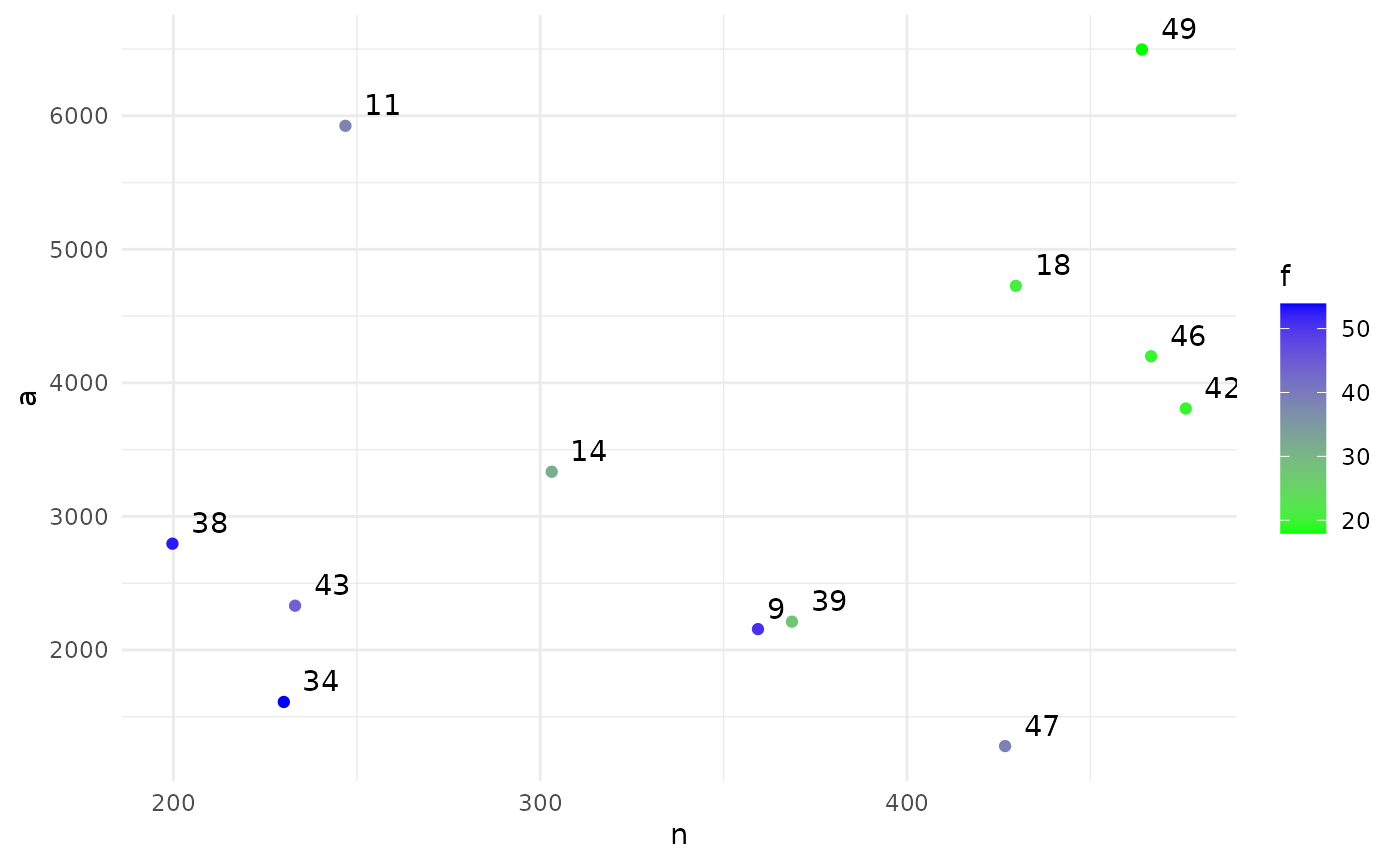
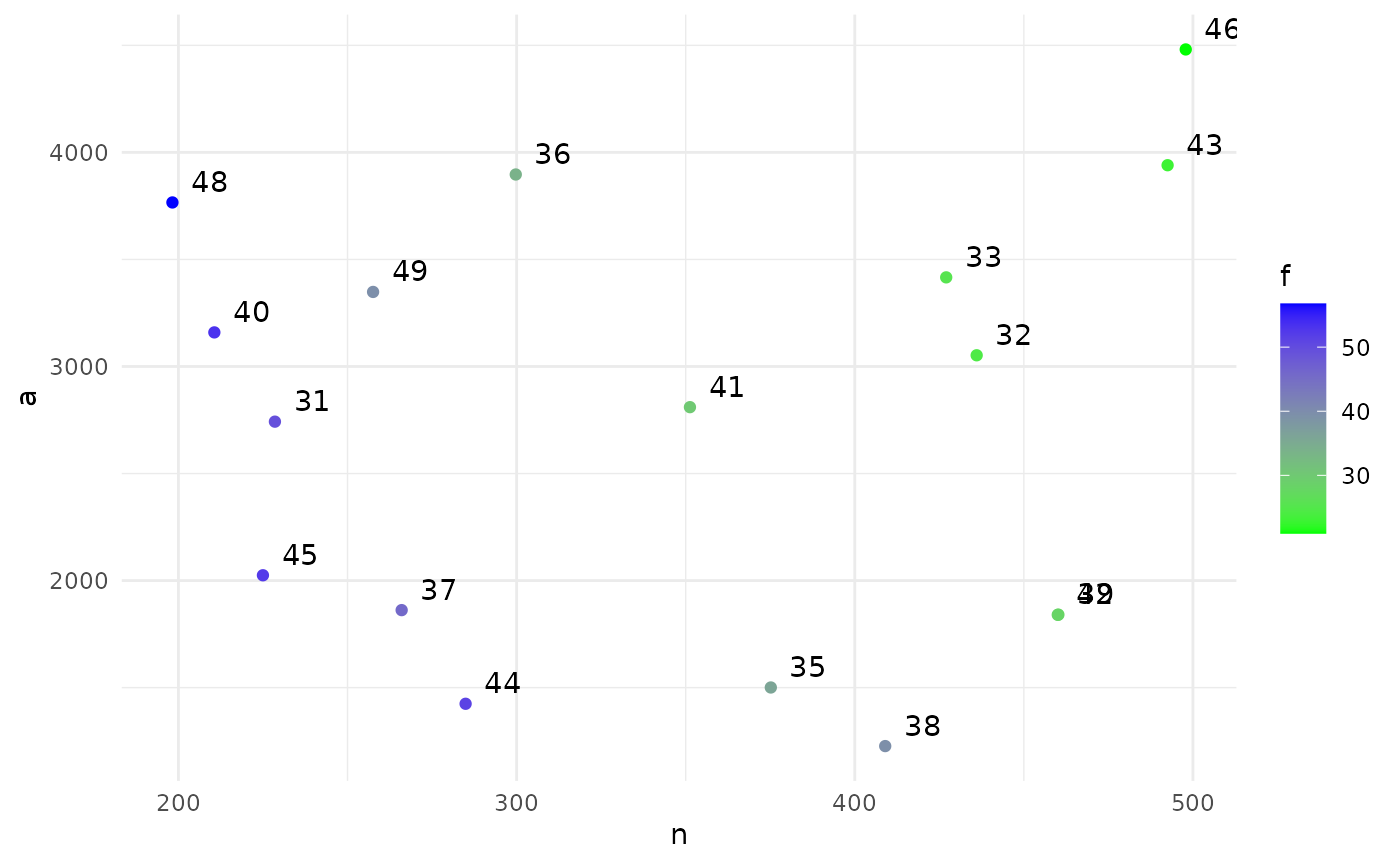
Deploying to gh-pages from @ DTWilson/BOSSS@1fa778f2d2bf5e0891db923f933d6908e89b4edc 🚀

diff --git a/articles/Examples.html b/articles/Examples.html
@@ -600,7 +600,7 @@ be (probably) less than 0.2 and the follow-up length to be less than
 <code class="sourceCode R"><span><span class="fu"><a href="https://rdrr.io/r/base/Random.html" class="external-link">set.seed</a></span><span class="op">(</span><span class="fl">327324</span><span class="op">)</span></span>
 <span></span>
 <span><span class="va">size</span> <span class="op">&lt;-</span> <span class="fl">30</span></span>
-<span><span class="va">N</span> <span class="op">&lt;-</span> <span class="fl">500</span></span>
+<span><span class="va">N</span> <span class="op">&lt;-</span> <span class="fl">100</span></span>
 <span></span>
 <span><span class="va">ptm</span> <span class="op">&lt;-</span> <span class="fu"><a href="https://rdrr.io/r/base/proc.time.html" class="external-link">proc.time</a></span><span class="op">(</span><span class="op">)</span></span>
 <span><span class="va">sol</span> <span class="op">&lt;-</span> <span class="fu"><a href="../reference/BOSSS_solution.html">BOSSS_solution</a></span><span class="op">(</span><span class="va">size</span>, <span class="va">N</span>, <span class="va">prob</span><span class="op">)</span></span>
@@ -611,11 +611,10 @@ be (probably) less than 0.2 and the follow-up length to be less than
 <span><span class="co">#&gt; </span></span>
 <span><span class="co">#&gt;           n      fu      af</span></span>
 <span><span class="co">#&gt; 9  359.3750 50.6250 8.31250</span></span>
-<span><span class="co">#&gt; 11 246.8750 38.1250 1.56250</span></span>
 <span><span class="co">#&gt; 13 415.6250 44.3750 4.93750</span></span>
 <span><span class="co">#&gt; 17 317.1875 58.4375 4.09375</span></span>
-<span><span class="co">#&gt; 18 429.6875 20.9375 1.84375</span></span>
 <span><span class="co">#&gt; 21 485.9375 39.6875 9.71875</span></span>
+<span><span class="co">#&gt; 25 345.3125 42.8125 1.28125</span></span>
 <span><span class="co">#&gt; 26 457.8125 30.3125 3.53125</span></span>
 <span><span class="co">#&gt; 29 401.5625 49.0625 6.90625</span></span>
 <span><span class="co">#&gt; </span></span>
@@ -623,83 +622,117 @@ be (probably) less than 0.2 and the follow-up length to be less than
 <span><span class="co">#&gt; </span></span>
 <span><span class="co">#&gt;    n, alt (mean) a, alt (mean) f, alt (mean)</span></span>
 <span><span class="co">#&gt; 9       359.3750      2156.250       50.6250</span></span>
-<span><span class="co">#&gt; 11      246.8750      5925.000       38.1250</span></span>
 <span><span class="co">#&gt; 13      415.6250      3325.000       44.3750</span></span>
 <span><span class="co">#&gt; 17      317.1875      4440.625       58.4375</span></span>
-<span><span class="co">#&gt; 18      429.6875      4726.562       20.9375</span></span>
 <span><span class="co">#&gt; 21      485.9375      1943.750       39.6875</span></span>
+<span><span class="co">#&gt; 25      345.3125     11395.312       42.8125</span></span>
 <span><span class="co">#&gt; 26      457.8125      3662.500       30.3125</span></span>
 <span><span class="co">#&gt; 29      401.5625      2810.938       49.0625</span></span>
 <span><span class="co">#&gt; </span></span>
 <span><span class="co">#&gt; ...and constraint function values:</span></span>
 <span><span class="co">#&gt; </span></span>
 <span><span class="co">#&gt;    s, alt (mean) s, alt (var)</span></span>
-<span><span class="co">#&gt; 9      -2.818081   0.03757873</span></span>
-<span><span class="co">#&gt; 11     -1.780150   0.01618577</span></span>
-<span><span class="co">#&gt; 13     -2.936892   0.04178691</span></span>
-<span><span class="co">#&gt; 17     -3.221373   0.05416146</span></span>
-<span><span class="co">#&gt; 18     -1.732408   0.01564970</span></span>
-<span><span class="co">#&gt; 21     -2.710611   0.03418256</span></span>
-<span><span class="co">#&gt; 26     -2.437794   0.02704859</span></span>
-<span><span class="co">#&gt; 29     -3.221373   0.05416146</span></span>
+<span><span class="co">#&gt; 9      -2.419826    0.1333284</span></span>
+<span><span class="co">#&gt; 13     -3.131345    0.2494842</span></span>
+<span><span class="co">#&gt; 17     -3.131345    0.2494842</span></span>
+<span><span class="co">#&gt; 21     -2.560667    0.1502170</span></span>
+<span><span class="co">#&gt; 25     -2.907321    0.2036231</span></span>
+<span><span class="co">#&gt; 26     -3.798549    0.4665877</span></span>
+<span><span class="co">#&gt; 29     -3.798549    0.4665877</span></span>
 <span><span class="fu"><a href="https://rdrr.io/r/graphics/plot.default.html" class="external-link">plot</a></span><span class="op">(</span><span class="va">sol</span><span class="op">)</span></span></code></pre></div>
 <p><img src="Examples_files/figure-html/unnamed-chunk-15-1.png" width="700"></p>
 <div class="sourceCode" id="cb14"><pre class="downlit sourceCode r">
-<code class="sourceCode R"><span><span class="va">N</span> <span class="op">&lt;-</span> <span class="fl">500</span></span>
+<code class="sourceCode R"><span><span class="va">N</span> <span class="op">&lt;-</span> <span class="fl">100</span></span>
+<span><span class="va">ptm</span> <span class="op">&lt;-</span> <span class="fu"><a href="https://rdrr.io/r/base/proc.time.html" class="external-link">proc.time</a></span><span class="op">(</span><span class="op">)</span></span>
 <span><span class="kw">for</span><span class="op">(</span><span class="va">i</span> <span class="kw">in</span> <span class="fl">1</span><span class="op">:</span><span class="fl">20</span><span class="op">)</span> <span class="op">{</span></span>
 <span>  <span class="va">sol</span> <span class="op">&lt;-</span> <span class="fu"><a href="../reference/iterate.html">iterate</a></span><span class="op">(</span><span class="va">sol</span>, <span class="va">prob</span>, <span class="va">N</span><span class="op">)</span> </span>
-<span><span class="op">}</span></span></code></pre></div>
+<span><span class="op">}</span></span>
+<span><span class="fu"><a href="https://rdrr.io/r/base/proc.time.html" class="external-link">proc.time</a></span><span class="op">(</span><span class="op">)</span> <span class="op">-</span> <span class="va">ptm</span></span></code></pre></div>
 <div class="sourceCode" id="cb15"><pre class="downlit sourceCode r">
 <code class="sourceCode R"><span><span class="fu"><a href="https://rdrr.io/r/base/print.html" class="external-link">print</a></span><span class="op">(</span><span class="va">sol</span><span class="op">)</span></span>
 <span><span class="co">#&gt; Design variables for the Pareto set: </span></span>
 <span><span class="co">#&gt; </span></span>
 <span><span class="co">#&gt;           n       fu       af</span></span>
-<span><span class="co">#&gt; 9  359.3750 50.62500 8.312500</span></span>
-<span><span class="co">#&gt; 11 246.8750 38.12500 1.562500</span></span>
-<span><span class="co">#&gt; 14 303.1250 31.87500 2.687500</span></span>
-<span><span class="co">#&gt; 18 429.6875 20.93750 1.843750</span></span>
-<span><span class="co">#&gt; 34 230.0819 53.88707 6.759177</span></span>
-<span><span class="co">#&gt; 38 199.7083 52.63788 3.515716</span></span>
-<span><span class="co">#&gt; 39 368.6289 27.57863 3.947984</span></span>
-<span><span class="co">#&gt; 42 476.0093 19.61557 2.193718</span></span>
-<span><span class="co">#&gt; 43 233.1484 44.00125 4.014669</span></span>
-<span><span class="co">#&gt; 46 466.5642 19.70490 1.971585</span></span>
-<span><span class="co">#&gt; 47 426.7519 38.53797 9.637794</span></span>
-<span><span class="co">#&gt; 49 464.0631 17.94535 1.257592</span></span>
+<span><span class="co">#&gt; 31 228.5281 49.35014 3.796745</span></span>
+<span><span class="co">#&gt; 32 436.0485 24.43320 3.054609</span></span>
+<span><span class="co">#&gt; 33 427.0384 25.46592 2.831004</span></span>
+<span><span class="co">#&gt; 35 375.1751 35.87907 7.225270</span></span>
+<span><span class="co">#&gt; 36 299.7509 33.84992 2.426087</span></span>
+<span><span class="co">#&gt; 37 266.0080 45.64281 5.707002</span></span>
+<span><span class="co">#&gt; 38 409.0015 39.50040 9.875706</span></span>
+<span><span class="co">#&gt; 39 460.2070 27.09531 5.422619</span></span>
+<span><span class="co">#&gt; 40 210.6164 53.24293 3.328948</span></span>
+<span><span class="co">#&gt; 41 351.2584 29.99896 3.340470</span></span>
+<span><span class="co">#&gt; 42 460.0331 28.08401 5.657101</span></span>
+<span><span class="co">#&gt; 43 492.5110 22.98154 2.639792</span></span>
+<span><span class="co">#&gt; 44 284.9192 51.21357 8.542463</span></span>
+<span><span class="co">#&gt; 45 224.9842 52.27752 5.274293</span></span>
+<span><span class="co">#&gt; 46 497.8736 20.94598 2.201160</span></span>
+<span><span class="co">#&gt; 48 198.2200 56.76570 2.842515</span></span>
+<span><span class="co">#&gt; 49 257.5549 39.58456 2.950562</span></span>
 <span><span class="co">#&gt; </span></span>
 <span><span class="co">#&gt; Corresponding objective function values...</span></span>
 <span><span class="co">#&gt; </span></span>
 <span><span class="co">#&gt;    n, alt (mean) a, alt (mean) f, alt (mean)</span></span>
-<span><span class="co">#&gt; 9       359.3750      2156.250      50.62500</span></span>
-<span><span class="co">#&gt; 11      246.8750      5925.000      38.12500</span></span>
-<span><span class="co">#&gt; 14      303.1250      3334.375      31.87500</span></span>
-<span><span class="co">#&gt; 18      429.6875      4726.562      20.93750</span></span>
-<span><span class="co">#&gt; 34      230.0819      1610.573      53.88707</span></span>
-<span><span class="co">#&gt; 38      199.7083      2795.917      52.63788</span></span>
-<span><span class="co">#&gt; 39      368.6289      2211.773      27.57863</span></span>
-<span><span class="co">#&gt; 42      476.0093      3808.074      19.61557</span></span>
-<span><span class="co">#&gt; 43      233.1484      2331.484      44.00125</span></span>
-<span><span class="co">#&gt; 46      466.5642      4199.077      19.70490</span></span>
-<span><span class="co">#&gt; 47      426.7519      1280.256      38.53797</span></span>
-<span><span class="co">#&gt; 49      464.0631      6496.883      17.94535</span></span>
+<span><span class="co">#&gt; 31      228.5281      2742.337      49.35014</span></span>
+<span><span class="co">#&gt; 32      436.0485      3052.340      24.43320</span></span>
+<span><span class="co">#&gt; 33      427.0384      3416.307      25.46592</span></span>
+<span><span class="co">#&gt; 35      375.1751      1500.700      35.87907</span></span>
+<span><span class="co">#&gt; 36      299.7509      3896.762      33.84992</span></span>
+<span><span class="co">#&gt; 37      266.0080      1862.056      45.64281</span></span>
+<span><span class="co">#&gt; 38      409.0015      1227.004      39.50040</span></span>
+<span><span class="co">#&gt; 39      460.2070      1840.828      27.09531</span></span>
+<span><span class="co">#&gt; 40      210.6164      3159.247      53.24293</span></span>
+<span><span class="co">#&gt; 41      351.2584      2810.067      29.99896</span></span>
+<span><span class="co">#&gt; 42      460.0331      1840.132      28.08401</span></span>
+<span><span class="co">#&gt; 43      492.5110      3940.088      22.98154</span></span>
+<span><span class="co">#&gt; 44      284.9192      1424.596      51.21357</span></span>
+<span><span class="co">#&gt; 45      224.9842      2024.858      52.27752</span></span>
+<span><span class="co">#&gt; 46      497.8736      4480.862      20.94598</span></span>
+<span><span class="co">#&gt; 48      198.2200      3766.181      56.76570</span></span>
+<span><span class="co">#&gt; 49      257.5549      3348.214      39.58456</span></span>
 <span><span class="co">#&gt; </span></span>
 <span><span class="co">#&gt; ...and constraint function values:</span></span>
 <span><span class="co">#&gt; </span></span>
 <span><span class="co">#&gt;    s, alt (mean) s, alt (var)</span></span>
-<span><span class="co">#&gt; 9      -2.818081   0.03757873</span></span>
-<span><span class="co">#&gt; 11     -1.780150   0.01618577</span></span>
-<span><span class="co">#&gt; 14     -1.448401   0.01297212</span></span>
-<span><span class="co">#&gt; 18     -1.732408   0.01564970</span></span>
-<span><span class="co">#&gt; 34     -1.732408   0.01564970</span></span>
-<span><span class="co">#&gt; 38     -1.397322   0.01257317</span></span>
-<span><span class="co">#&gt; 39     -1.435480   0.01286903</span></span>
-<span><span class="co">#&gt; 42     -1.569679   0.01401522</span></span>
-<span><span class="co">#&gt; 43     -1.597971   0.01427917</span></span>
-<span><span class="co">#&gt; 46     -1.612318   0.01441616</span></span>
-<span><span class="co">#&gt; 47     -1.474557   0.01318541</span></span>
-<span><span class="co">#&gt; 49     -1.656207   0.01484864</span></span>
+<span><span class="co">#&gt; 31     -1.442005   0.06465620</span></span>
+<span><span class="co">#&gt; 32     -1.317975   0.06003526</span></span>
+<span><span class="co">#&gt; 33     -2.179642   0.10956219</span></span>
+<span><span class="co">#&gt; 35     -1.648184   0.07389930</span></span>
+<span><span class="co">#&gt; 36     -1.648184   0.07389930</span></span>
+<span><span class="co">#&gt; 37     -1.648184   0.07389930</span></span>
+<span><span class="co">#&gt; 38     -1.648184   0.07389930</span></span>
+<span><span class="co">#&gt; 39     -1.378841   0.06222167</span></span>
+<span><span class="co">#&gt; 40     -1.723706   0.07783667</span></span>
+<span><span class="co">#&gt; 41     -1.442005   0.06465620</span></span>
+<span><span class="co">#&gt; 42     -1.576338   0.07043940</span></span>
+<span><span class="co">#&gt; 43     -1.978171   0.09367830</span></span>
+<span><span class="co">#&gt; 44     -1.978171   0.09367830</span></span>
+<span><span class="co">#&gt; 45     -1.507734   0.06737895</span></span>
+<span><span class="co">#&gt; 46     -1.803428   0.08235156</span></span>
+<span><span class="co">#&gt; 48     -1.648184   0.07389930</span></span>
+<span><span class="co">#&gt; 49     -1.442005   0.06465620</span></span>
+<span></span>
+<span><span class="va">p</span> <span class="op">&lt;-</span> <span class="fu"><a href="../reference/PS_empirical_ests.html">PS_empirical_ests</a></span><span class="op">(</span><span class="va">sol</span>, <span class="va">prob</span><span class="op">)</span><span class="op">[[</span><span class="fl">2</span><span class="op">]</span><span class="op">]</span><span class="op">[</span>, <span class="fl">1</span><span class="op">]</span></span>
+<span><span class="va">p</span> <span class="op">&lt;-</span> <span class="fl">1</span> <span class="op">-</span> <span class="fl">1</span><span class="op">/</span><span class="op">(</span><span class="fl">1</span> <span class="op">+</span> <span class="fu"><a href="https://rdrr.io/r/base/Log.html" class="external-link">exp</a></span><span class="op">(</span><span class="op">-</span><span class="va">p</span><span class="op">)</span><span class="op">)</span></span>
+<span></span>
+<span><span class="va">df</span> <span class="op">&lt;-</span> <span class="va">sol</span><span class="op">$</span><span class="va">p_set</span><span class="op">[</span>,<span class="fl">1</span><span class="op">:</span><span class="fl">3</span><span class="op">]</span></span>
+<span><span class="va">df</span><span class="op">$</span><span class="va">a</span> <span class="op">&lt;-</span> <span class="op">(</span><span class="va">df</span><span class="op">$</span><span class="va">fu</span> <span class="op"><a href="https://rdrr.io/r/base/Arithmetic.html" class="external-link">%/%</a></span> <span class="va">df</span><span class="op">$</span><span class="va">af</span><span class="op">)</span><span class="op">*</span><span class="va">df</span><span class="op">$</span><span class="va">n</span></span>
+<span></span>
+<span><span class="va">df</span> <span class="op">&lt;-</span> <span class="fu"><a href="https://rdrr.io/r/base/cbind.html" class="external-link">cbind</a></span><span class="op">(</span><span class="va">df</span>, <span class="va">p</span><span class="op">)</span></span>
+<span></span>
+<span><span class="va">df</span> <span class="op">&lt;-</span> <span class="va">df</span><span class="op">[</span><span class="fu"><a href="https://rdrr.io/r/base/order.html" class="external-link">order</a></span><span class="op">(</span><span class="va">df</span><span class="op">[</span>,<span class="fl">1</span><span class="op">]</span><span class="op">)</span>,<span class="op">]</span></span>
+<span>  </span>
+<span><span class="fu"><a href="https://rdrr.io/r/base/colnames.html" class="external-link">colnames</a></span><span class="op">(</span><span class="va">df</span><span class="op">)</span> <span class="op">&lt;-</span> <span class="fu"><a href="https://rdrr.io/r/base/c.html" class="external-link">c</a></span><span class="op">(</span><span class="st">"$n$"</span>, <span class="st">"$f$"</span>, <span class="st">"$a_f$"</span>, <span class="st">"a"</span>,</span>
+<span>                       <span class="st">"$E[s ~|~ H_1]$"</span><span class="op">)</span></span>
+<span></span>
+<span><span class="co">#print(xtable(df, digits = c(0,0,0,0,0,2)), booktabs = T, include.rownames = T, sanitize.text.function = function(x) {x}, floating = F, file = here("man", "tables", "P2.txt"))</span></span>
+<span></span>
 <span><span class="fu"><a href="https://rdrr.io/r/graphics/plot.default.html" class="external-link">plot</a></span><span class="op">(</span><span class="va">sol</span><span class="op">)</span></span></code></pre></div>
 <p><img src="Examples_files/figure-html/unnamed-chunk-18-1.png" width="700"></p>
+<div class="sourceCode" id="cb16"><pre class="downlit sourceCode r">
+<code class="sourceCode R"><span></span>
+<span><span class="co">#ggsave(here("man", "figures", "P2.pdf"), height=9, width=14, units="cm")</span></span></code></pre></div>
 </div>
 <div class="section level2">
 <h2 id="recruitment">Recruitment<a class="anchor" aria-label="anchor" href="#recruitment"></a>
@@ -726,7 +759,7 @@ function which returns the conditional power (conditioning on the
 attained sample size and the parameters of the outcome model) for any
 given design and hypothesis, and a deterministic function to return the
 two objective functions.</p>
-<div class="sourceCode" id="cb16"><pre class="downlit sourceCode r">
+<div class="sourceCode" id="cb17"><pre class="downlit sourceCode r">
 <code class="sourceCode R"><span><span class="kw"><a href="https://rdrr.io/r/base/library.html" class="external-link">library</a></span><span class="op">(</span><span class="va"><a href="https://dtwilson.github.io/BOSSS/">BOSSS</a></span><span class="op">)</span></span>
 <span></span>
 <span><span class="va">sim_rec</span> <span class="op">&lt;-</span> <span class="kw">function</span><span class="op">(</span><span class="va">m</span><span class="op">=</span><span class="fl">20</span>, <span class="va">t</span><span class="op">=</span><span class="fl">3</span>, </span>
@@ -790,7 +823,7 @@ two objective functions.</p>
 <p>Now we set up the problem using the <code>BOSSS</code> helper
 functions. We are going to look at designs with between 3 and 40 sites,
 running from between 6 months and 5 years.</p>
-<div class="sourceCode" id="cb17"><pre class="downlit sourceCode r">
+<div class="sourceCode" id="cb18"><pre class="downlit sourceCode r">
 <code class="sourceCode R"><span><span class="co"># Problem specification</span></span>
 <span><span class="va">design_space</span> <span class="op">&lt;-</span> <span class="fu"><a href="../reference/design_space.html">design_space</a></span><span class="op">(</span>lower <span class="op">=</span> <span class="fu"><a href="https://rdrr.io/r/base/c.html" class="external-link">c</a></span><span class="op">(</span><span class="fl">3</span>,<span class="fl">0.5</span><span class="op">)</span>, </span>
 <span>                             upper <span class="op">=</span> <span class="fu"><a href="https://rdrr.io/r/base/c.html" class="external-link">c</a></span><span class="op">(</span><span class="fl">40</span>,<span class="fl">5</span><span class="op">)</span>,</span>
@@ -815,7 +848,7 @@ running from between 6 months and 5 years.</p>
 <span>                 binary <span class="op">=</span> <span class="fu"><a href="https://rdrr.io/r/base/c.html" class="external-link">c</a></span><span class="op">(</span><span class="cn">FALSE</span>, <span class="cn">FALSE</span><span class="op">)</span><span class="op">)</span></span>
 <span></span>
 <span><span class="va">prob</span> <span class="op">&lt;-</span> <span class="fu"><a href="../reference/BOSSS_problem.html">BOSSS_problem</a></span><span class="op">(</span><span class="va">sim_rec</span>, <span class="va">design_space</span>, <span class="va">hypotheses</span>, <span class="va">objectives</span>, <span class="va">constraints</span>, det_func <span class="op">=</span> <span class="va">det_rec</span><span class="op">)</span></span></code></pre></div>
-<div class="sourceCode" id="cb18"><pre class="downlit sourceCode r">
+<div class="sourceCode" id="cb19"><pre class="downlit sourceCode r">
 <code class="sourceCode R"><span><span class="va">size</span> <span class="op">&lt;-</span> <span class="fl">20</span></span>
 <span><span class="va">N</span> <span class="op">&lt;-</span> <span class="fl">500</span></span>
 <span></span>
@@ -823,7 +856,7 @@ running from between 6 months and 5 years.</p>
 <span></span>
 <span><span class="fu"><a href="https://rdrr.io/r/base/print.html" class="external-link">print</a></span><span class="op">(</span><span class="va">sol</span><span class="op">)</span></span>
 <span><span class="fu"><a href="https://rdrr.io/r/graphics/plot.default.html" class="external-link">plot</a></span><span class="op">(</span><span class="va">sol</span><span class="op">)</span></span></code></pre></div>
-<div class="sourceCode" id="cb19"><pre class="downlit sourceCode r">
+<div class="sourceCode" id="cb20"><pre class="downlit sourceCode r">
 <code class="sourceCode R"><span><span class="kw">for</span><span class="op">(</span><span class="va">i</span> <span class="kw">in</span> <span class="fl">1</span><span class="op">:</span><span class="fl">30</span><span class="op">)</span> <span class="op">{</span></span>
 <span>  <span class="va">sol</span> <span class="op">&lt;-</span> <span class="fu"><a href="../reference/iterate.html">iterate</a></span><span class="op">(</span><span class="va">sol</span>, <span class="va">prob</span>, <span class="va">N</span><span class="op">)</span> </span>
 <span><span class="op">}</span></span>
@@ -849,7 +882,7 @@ multistate model analysis of longitudinal discrete outcomes in disease
 prevention trials. <em>Statistics in Medicine</em>, 40: 1960–1971
 (2021). <a href="https://doi.org/10.1002/sim.8882" class="external-link uri">https://doi.org/10.1002/sim.8882</a></p></li>
 </ul>
-<div class="sourceCode" id="cb20"><pre class="downlit sourceCode r">
+<div class="sourceCode" id="cb21"><pre class="downlit sourceCode r">
 <code class="sourceCode R"><span><span class="fu">knitr</span><span class="fu">::</span><span class="fu"><a href="https://rdrr.io/pkg/knitr/man/knit_exit.html" class="external-link">knit_exit</a></span><span class="op">(</span><span class="op">)</span></span></code></pre></div>
 </div>
   </main><aside class="col-md-3"><nav id="toc" aria-label="Table of contents"><h2>On this page</h2>

diff --git a/articles/BOSSS.html b/articles/BOSSS.html
@@ -226,7 +226,7 @@ and then using those models to estimate the Pareto set and front:</p>
 <span></span>
 <span><span class="va">sol</span> <span class="op">&lt;-</span> <span class="fu"><a href="../reference/BOSSS_solution.html">BOSSS_solution</a></span><span class="op">(</span><span class="va">size</span>, <span class="va">N</span>, <span class="va">prob</span><span class="op">)</span></span>
 <span><span class="co">#&gt; Checking simulation speed...</span></span>
-<span><span class="co">#&gt; Initialisation will take approximately 0.592622 secs </span></span>
+<span><span class="co">#&gt; Initialisation will take approximately 0.5868146 secs </span></span>
 <span><span class="co">#&gt; Solution found</span></span>
 <span></span>
 <span><span class="fu"><a href="https://rdrr.io/r/base/print.html" class="external-link">print</a></span><span class="op">(</span><span class="va">sol</span><span class="op">)</span> </span>
@@ -515,7 +515,7 @@ only 10 evaluations at each of 6 initial designs:</p>
 <span></span>
 <span><span class="va">sol</span> <span class="op">&lt;-</span> <span class="fu"><a href="../reference/BOSSS_solution.html">BOSSS_solution</a></span><span class="op">(</span><span class="va">size</span>, <span class="va">N</span>, <span class="va">prob</span><span class="op">)</span></span>
 <span><span class="co">#&gt; Checking simulation speed...</span></span>
-<span><span class="co">#&gt; Initialisation will take approximately 0.01507163 secs </span></span>
+<span><span class="co">#&gt; Initialisation will take approximately 0.01511574 secs </span></span>
 <span><span class="co">#&gt; Solution found</span></span>
 <span></span>
 <span><span class="fu"><a href="https://rdrr.io/r/base/print.html" class="external-link">print</a></span><span class="op">(</span><span class="va">sol</span><span class="op">)</span> </span>
